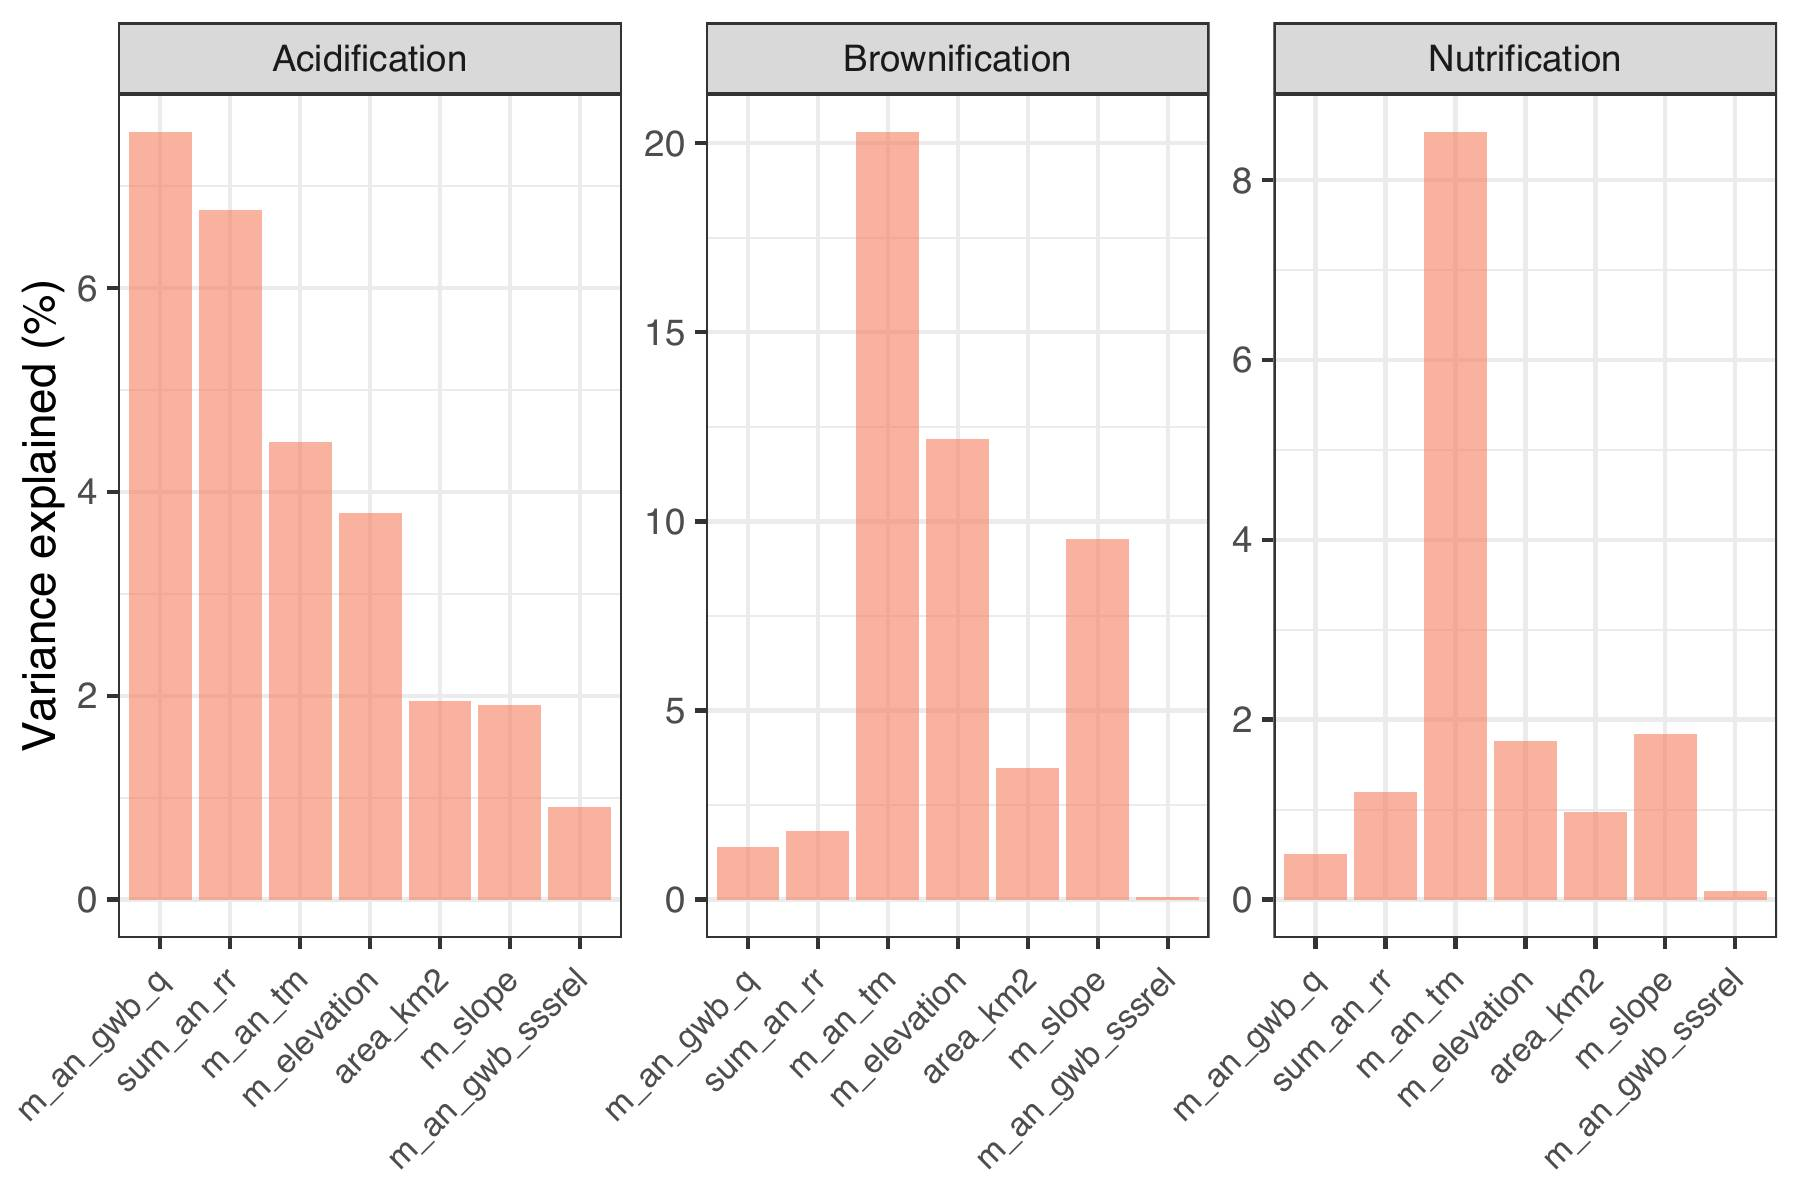
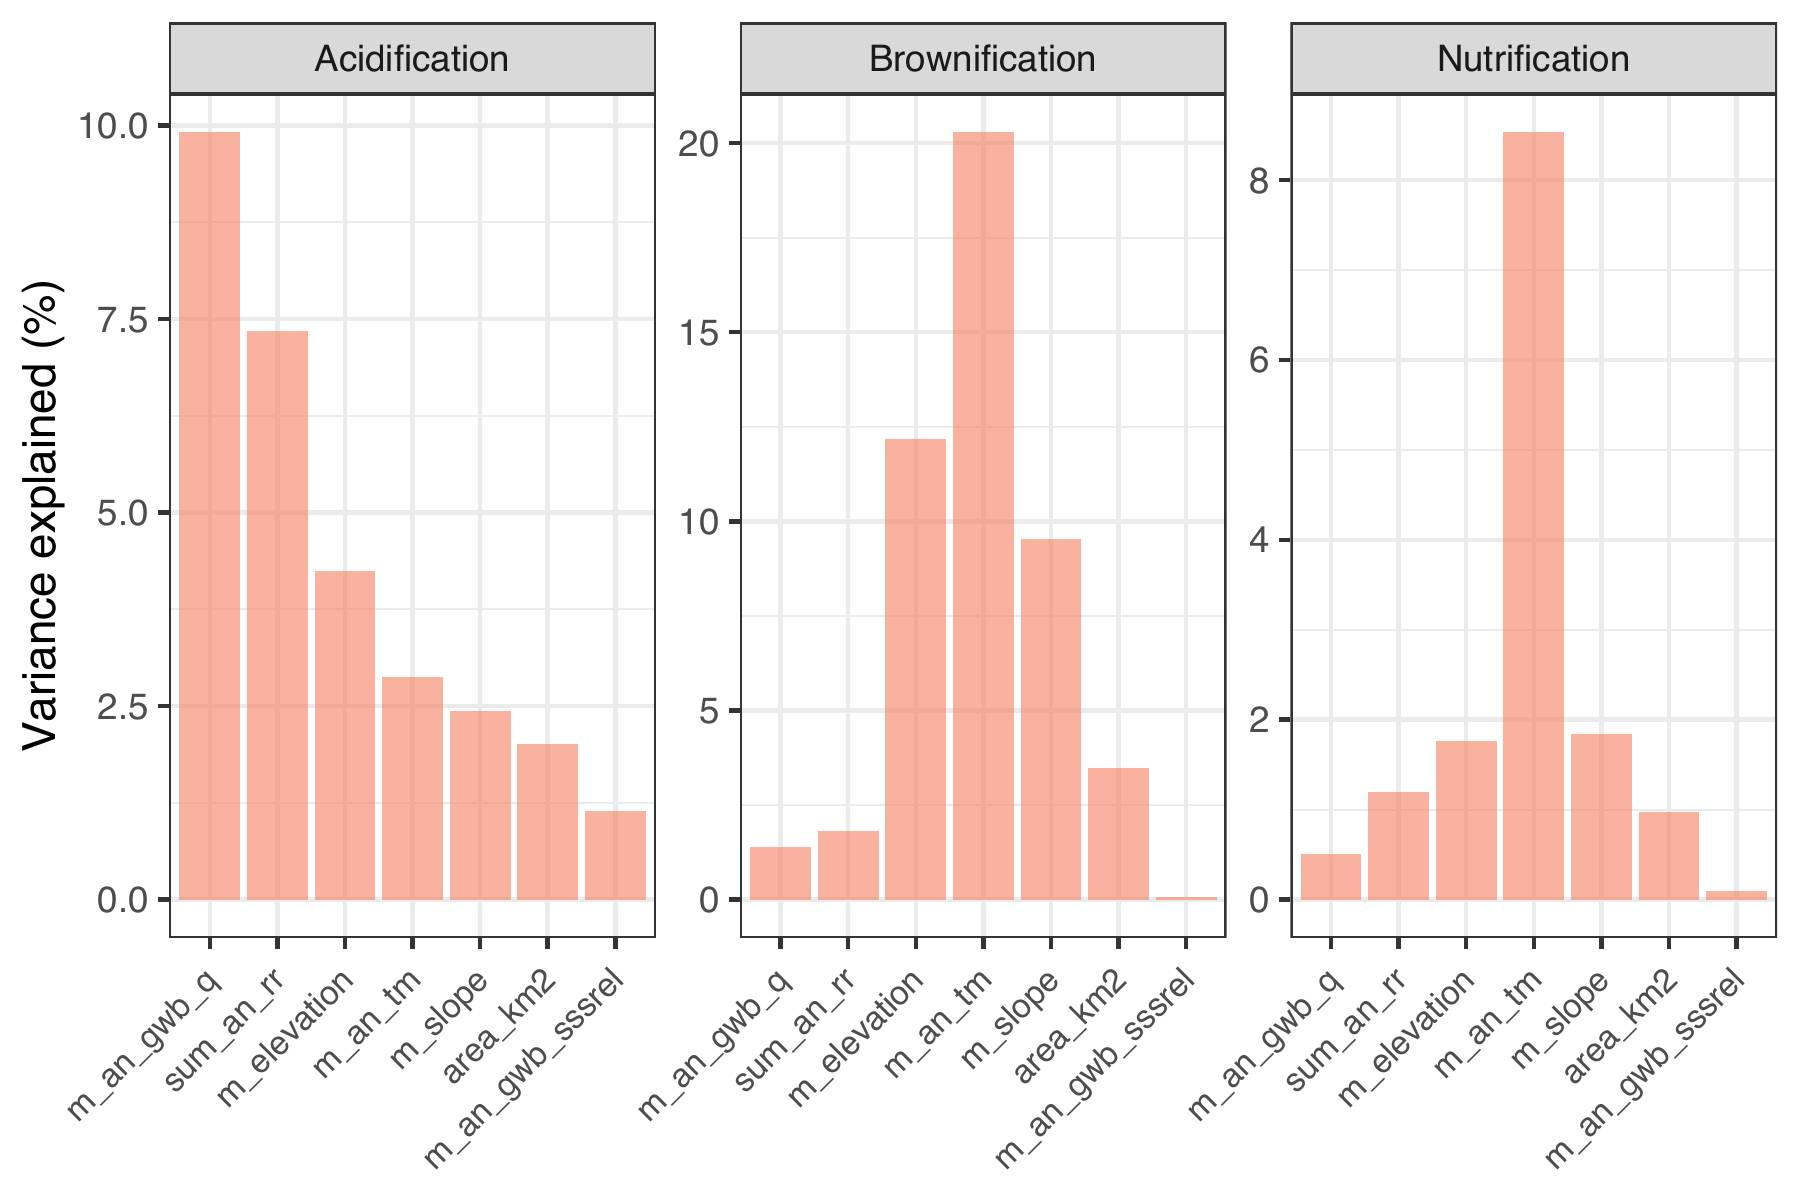
logratios

diff --git a/docs/book_waterchem.html b/docs/book_waterchem.html
@@ -116,7 +116,7 @@ ul.task-list{list-style: none;}
   <li><a href="#brownification" id="toc-brownification" class="nav-link active" data-scroll-target="#brownification">Brownification</a></li>
   <li><a href="#acidification" id="toc-acidification" class="nav-link" data-scroll-target="#acidification">Acidification</a></li>
   <li><a href="#nutrification" id="toc-nutrification" class="nav-link" data-scroll-target="#nutrification">Nutrification</a></li>
-  <li><a href="#section-9" id="toc-section-9" class="nav-link" data-scroll-target="#section-9"></a></li>
+  <li><a href="#logratios" id="toc-logratios" class="nav-link" data-scroll-target="#logratios">LogRatios</a></li>
   </ul>
 </nav>
     </div>
@@ -222,8 +222,16 @@ ul.task-list{list-style: none;}
 </div>
 </div>
 </section>
-<section id="section-9" class="level2">
-<h2 class="anchored" data-anchor-id="section-9"></h2>
+<section id="logratios" class="level2">
+<h2 class="anchored" data-anchor-id="logratios">LogRatios</h2>
+<div class="panel-tabset">
+<ul class="nav nav-tabs" role="tablist"><li class="nav-item" role="presentation"><a class="nav-link active" id="tabset-4-1-tab" data-bs-toggle="tab" data-bs-target="#tabset-4-1" role="tab" aria-controls="tabset-4-1" aria-selected="true">2018/2020</a></li></ul>
+<div class="tab-content">
+<div id="tabset-4-1" class="tab-pane active" role="tabpanel" aria-labelledby="tabset-4-1-tab">
+<p><img src="Figures/logratio_18_20_brown.jpeg" class="img-fluid" data-fig-align="center"> <img src="Figures/logratio_18_20_Acid.jpeg" class="img-fluid" data-fig-align="center"> <img src="Figures/logratio_18_20.jpeg" class="img-fluid" data-fig-align="center"></p>
+</div>
+</div>
+</div>
 
 
 </section>

diff --git a/docs/book_multivariate.html b/docs/book_multivariate.html
@@ -192,7 +192,7 @@ ul.task-list{list-style: none;}
 <p><img src="Figures/multibar.jpeg" class="img-fluid figure-img" style="width:75.0%"></p>
 </figure>
 </div>
-<p>Results of RDA for each of the catchment variables in predicting water chemistry parameters (Brownification = DOC_mg_L, Water_Color_mgPt_l, Fe_ug_L; Nutrification = TotP_ug_L, TotN_ug_L, NO3_ug_L; Acidification = Temp_C, pH, ANC_µEkv_L, Ca_mg_L).</p>
+<p>Results of RDA for each of the catchment variables in predicting water chemistry parameters (Brownification = DOC_mg_L, Water_Color_mgPt_l, Fe_ug_L; Nutrification = TotP_ug_L, TotN_ug_L, NO3_ug_L; Acidification = pH, ANC_µEkv_L, Ca_mg_L).</p>
 </div>
 <div id="tabset-3-2" class="tab-pane" role="tabpanel" aria-labelledby="tabset-3-2-tab">
 <div class="quarto-figure quarto-figure-center">
@@ -200,7 +200,7 @@ ul.task-list{list-style: none;}
 <p><img src="Figures/multibar3.jpeg" class="img-fluid figure-img" style="width:80.0%"></p>
 </figure>
 </div>
-<p>Results of RDA for each of the catchment variables in predicting water chemistry parameters (Brownification = DOC_mg_L, Water_Color_mgPt_l, Fe_ug_L; Nutrification = TotP_ug_L, TotN_ug_L, NO3_ug_L; Acidification = Temp_C, pH, ANC_µEkv_L, Ca_mg_L).</p>
+<p>Results of RDA for each of the catchment variables in predicting water chemistry parameters (Brownification = DOC_mg_L, Water_Color_mgPt_l, Fe_ug_L; Nutrification = TotP_ug_L, TotN_ug_L, NO3_ug_L; Acidification = pH, ANC_µEkv_L, Ca_mg_L).</p>
 </div>
 <div id="tabset-3-3" class="tab-pane" role="tabpanel" aria-labelledby="tabset-3-3-tab">
 <div class="quarto-figure quarto-figure-center">
